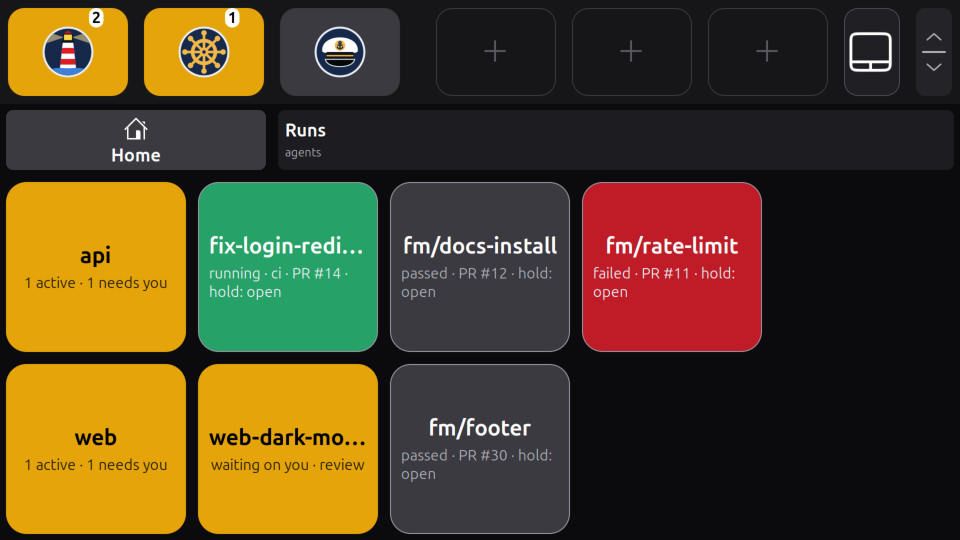
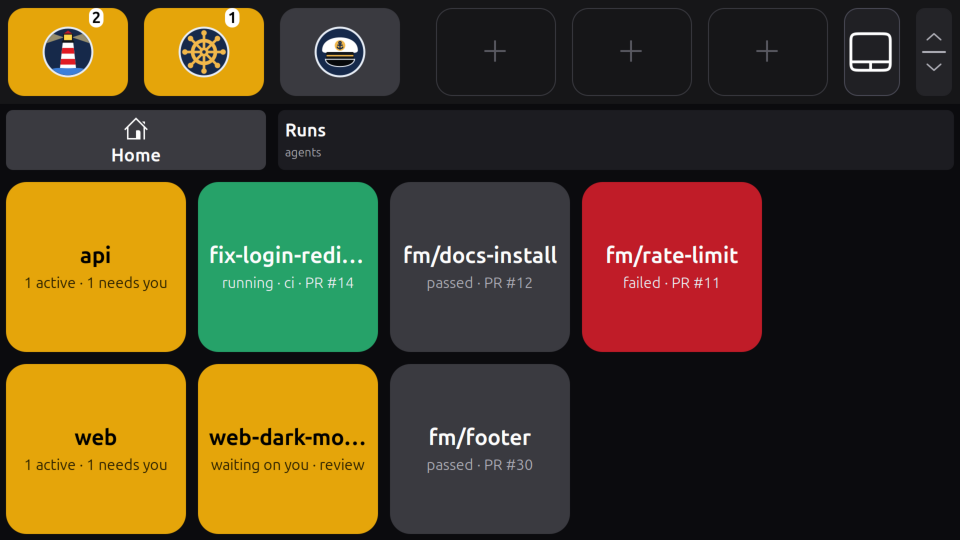
no-mistakes(review): Drop the long-press PR shortcut, keep Open PR

diff --git a/tests/test_runs_app.py b/tests/test_runs_app.py
@@ -1,6 +1,6 @@
 """The Runs page in the loop, against the stand-in touch bar's socket server:
 its page and tile, a tap opening a run's card and its Focus focusing the
-run's agent, Open PR and a long press opening a run's pull request (with a
+run's agent, Open PR on its card opening a run's pull request (with a
 stand-in opener: nothing opens on the screen), the runs tile, how often no-mistakes is read (only while the
 touch bar is connected, faster while a run is active), its failures, and
 `show`. no-mistakes, Herdr and firstmate are fakes."""
@@ -86,7 +86,7 @@ class RunsLoopTests(unittest.TestCase):
         self.assertEqual(self.herdr.sent, [])
         self.assertEqual({c[0] for c in self.nm.calls}, {"listing", "current", "detail", "findings"})
 
-    def test_open_pr_and_a_long_press_open_the_runs_pull_request(self):
+    def test_open_pr_on_the_card_opens_the_runs_pull_request(self):
         url = "https://github.com/o/r/pull/12"
         self.nm.runs = {API: [run(2, "fm/fix", "running", url), run(1, "fm/old", "completed")]}
         self.nm.details[run_id(2)] = detail(2, "fm/fix", at="ci")
@@ -97,12 +97,16 @@ class RunsLoopTests(unittest.TestCase):
             found = [w for w in rig.apps.pages["runs"].widgets if w.id == wid]
             return found[0].look if found else {}
 
-        rig.until(lambda: widget(widget_id("run.", run_id(2))).get("text", "").endswith("hold: open"))
-        rig.apps.press(client, "runs", widget_id("run.", run_id(1)), "long")  # no PR: nothing
+        rig.until(lambda: widget(widget_id("run.", run_id(2))).get("text", "").endswith("PR #12"))
+        # A long press on a run's cell, with a PR or without, does nothing.
+        for n in (1, 2):
+            rig.apps.press(client, "runs", widget_id("run.", run_id(n)), "long")
         rig.turn(3)
-        self.assertEqual((self.opened, widget(runcard.PR)), ([], {}))
-        # A long press on the run opens its card and the PR.
-        rig.apps.press(client, "runs", widget_id("run.", run_id(2)), "long")
+        self.assertEqual((self.opened, widget(runcard.PR), widget(runcard.LINES)), ([], {}, {}))
+        # A tap opens the card; Open PR on it opens the PR.
+        rig.apps.press(client, "runs", widget_id("run.", run_id(2)), "tap")
+        rig.until(lambda: widget(runcard.PR).get("label") == "Open PR #12")
+        rig.apps.press(client, "runs", runcard.PR, "tap")
         rig.until(lambda: widget(runcard.PR).get("label") == "PR #12 opened")
         self.assertEqual(self.opened, [url])
         self.assertIn("opened PR %s" % url, rig.logged)

diff --git a/screenpad_agents/runwatch.py b/screenpad_agents/runwatch.py
@@ -18,8 +18,7 @@ seconds while none is, at once when a card opens, and not at all while the
 touch bar is not connected (nothing would show it). The loop tells it the
 copies to look in when Herdr's agents or firstmate's tasks change.
 
-It also opens a run's pull request, on Open PR or a long press on the run's
-cell: the URL no-mistakes gave (runs.View.pr_url), with the desktop's URL
+It also opens a run's pull request, on Open PR on the run's card: the URL no-mistakes gave (runs.View.pr_url), with the desktop's URL
 handler in a scope of its own (desktop.py), the one command here that acts;
 it reads nothing more for it.
 """
@@ -202,12 +201,12 @@ class RunsWatch:
 
     def touch(self, widget, touch, fleet):
         """A touch on the Runs page: (the page changed, a pane to focus).
-        A tap on a run opens its card; a long press on a run with a pull
-        request opens its card and the pull request."""
+        A tap on a run opens its card; Open PR on the card opens its pull
+        request."""
+        if touch != "tap":
+            return False, None
         board = self.board
         if board.card is not None:
-            if touch != "tap":
-                return False, None
             if widget == BACK:
                 board.close_card()
                 self._jobs.put(("watch", None))
@@ -216,16 +215,10 @@ class RunsWatch:
                 return self._open_pr(fleet), None
             return False, board.card_pane(fleet) if widget == FOCUS else None
         run_id = board.run_of(widget)
-        if run_id is None or touch not in ("tap", "long"):
-            return False, None
-        if touch == "long" and board.pr_of(fleet, run_id) is None:
-            return False, None
-        if board.open_card(run_id) is None:
-            return False, None
-        if touch == "long":
-            self._open_pr(fleet)  # first, so the browser does not wait on the card's read
-        self._jobs.put(("watch", run_id))
-        return True, None
+        if run_id is not None and board.open_card(run_id) is not None:
+            self._jobs.put(("watch", run_id))
+            return True, None
+        return False, None
 
     def _open_pr(self, fleet):
         """Open the open card's pull request, unless an open is on its way:

diff --git a/screenpad_agents/runs.py b/screenpad_agents/runs.py
@@ -10,8 +10,7 @@ there) is of the run's branch, a copy to the Herdr agent whose cwd it is
 and to the firstmate task whose worktree it is. More than one active run
 for one agent, one repo copy or one branch is the warning: its project's
 widget turns red. Tapping a run opens its card (runcard.py) in place of the
-grid; a run with a pull request takes a long press too, which opens its card
-and the pull request (runwatch.py). Nothing here acts on a run.
+grid. Nothing here acts on a run.
 """
 
 import hashlib
@@ -28,8 +27,6 @@ from .nomistakes import pr_url
 COLUMNS = 5
 MIN_ROWS = 2
 RUN_CELLS = COLUMNS - 1
-# What a run cell with a pull request adds to its text: a long press opens it.
-HOLD = "hold: open"
 
 
 class Project:
@@ -401,8 +398,6 @@ class Runs:
             self._runs[wid] = v.run.id
             cell = {"id": wid, "col": col, "row": row, "label": clip(v.name(), MAX_LABEL), "tone": v.tone()}
             cell["text"] = clip(v.phrase(), MAX_TEXT)
-            if v.pr_url():
-                cell.update({"text": clip(v.phrase() + " · " + HOLD, MAX_TEXT), "touch": "long"})
             if v.duplicate:
                 cell["badge"] = "2+"
             cells.append(cell)

diff --git a/tests/test_runs_page.py b/tests/test_runs_page.py
@@ -249,12 +249,8 @@ class RunsPageTests(unittest.TestCase):
             with self.subTest(status=r.status, pr=r.pr):
                 b = self.board([(API, [r])], details=[d] if d else [])
                 cell = self.cells(b, f)[rid(2)]
-                if shown:
-                    self.assertEqual(cell.touch, "long")  # a long press opens the PR too
-                    self.assertTrue(cell.look["text"].endswith("PR #12 · hold: open"), cell.look["text"])
-                else:
-                    self.assertEqual(cell.touch, "tap")
-                    self.assertNotIn("hold", cell.look["text"])
+                self.assertEqual(cell.touch, "tap")
+                self.assertNotIn("hold", cell.look["text"])
                 self.assertEqual(b.pr_of(f, run_id(2)), shown)
                 b.open_card(run_id(2))
                 cells = self.cells(b, f)

diff --git a/docs/development.md b/docs/development.md
@@ -85,7 +85,7 @@ The agent app's tests use stand-ins only: a fake `herdr` script, and a fake firs
 - the card in the loop: Allow once, Always and Deny sending their keys and closing the card, a dialog that changes between draw and tap answered with nothing and drawn again with new buttons that need a fresh tap (the old ones then doing nothing), a state change likewise, the card following its screen and closing when its agent goes, Interrupt through `fm-control.sh` for a firstmate task and through Herdr's keys for another agent, an unknown harness read-only, and a failed send shown;
 - the decisions board: its path from `fm-bearings-board.sh path` with only `FM_HOME` (and never `build`), the session Lavish lists `open` for that file (both paths resolved, so a row listed through a symlink or with `//` or `.` matches) opened with the URL handler in a scope of its own (`systemd-run --user --scope --collect --quiet -- gio open <url>`, through a stand-in `systemd-run` that runs the opener after `--`), no `systemd-run` opening nothing, a scope that cannot be made opening nothing, none open (ended, another file, nothing listed) opening nothing, only a loopback `http` URL opened, `lavish-axi`, the opener and a missing script failing with why; asking firstmate for it with one `fm-inbox.sh note --json --request-id <id> -- <text>` with only `FM_HOME`, a refused note (exit 3, saved but not woken), a missing script or an answer that is no `fm-inbox-note.v1` failing with why, the same id again replayed, and a replay of a note firstmate has handled (acknowledged, or in `handled/`) told apart; what firstmate did with the note from `fm-inbox.sh receipts` with only `FM_HOME` (pending, handled, its reply, a note the view leaves out, an answer that is no `fm-inbox-receipts.v1`); and in the loop: a lift on the `calls` tile opening it (not a lift off the tile), taps while it opens opening it once, the Captain's Call widget's tap (not a cancel or a long press) opening its view in place, looking for the board without opening it and reading firstmate, its button opening the board and Back the grid again, no board open making the button Request board (asking nothing by itself), a tap on a button the page no longer shows doing nothing, a failure (no `systemd-run` among them) shown on the button, a long one cut to fit it and logged whole, and nothing sent to an agent or firstmate's control and nothing asked in the bar;
 - the wait for the board (`test_agents_boardwait.py`): Request board making the button and the Captain's Call widget say **Opening board…** before the note is even saved, asking firstmate once while it waits (taps then looking for the board, an older Request board doing nothing), the count read again after the request and once the board is open; the board found open ending the wait (the button then opening it; a tap finding it too), with the checks stopping and a later request under a new id; firstmate's reply shown on the button and ending the wait soon after with no board; no board in time saying so, with Retry asking again under the same id; a check that fails logged once with the wait going on; a failed note shown with Retry replaying it under the same id (a new id once it is older than the hold, and one new note under a new id when the replayed note was already handled); the same from the view on the Agents page; and a restarted app starting with no wait.
-- the Runs page: no-mistakes' client against a fake CLI (in the directory asked, only `axi`, `axi status`, `axi status --run <id>` and `axi rounds --run <id> --step <step> --json`, any other argument list refused before it runs, bad run ids and steps refused, directories it does not watch, a hang and a missing program), its TOON reader on no-mistakes' own output, and the scan (configured repos first, firstmate's clones in a throwaway home's `projects/` and the tasks' worktrees as one project, without firstmate only the repos, a configured repo it cannot read shown with why); the page and tile through the stand-in touch bar's validation (one row per project, active runs then the newest of each branch, a run joined to its agent by cwd and its task by worktree or endpoint, the warning for two active runs on one branch or one agent and none for two agents, runs waiting on a decision or failed counted, too many runs or projects, nothing read yet or no-mistakes failing, the tile's lighthouse and its words in place of it while no-mistakes fails (even after a good scan), a run's card with steps, durations, findings and Focus, Open PR and the cell's long press shown only for a run with a pull request URL on the forge (none before its PR, at CI, passed and failed with one, none for another host or `http`), the card's own read giving the URL first, and the button opening, opened and not opened with why); which `pr` is opened (only `https://github.com/<owner>/<repo>/pull/<number>`: no other scheme, host, user, port, query, fragment or path) and the open through the stand-in `systemd-run` and URL handler (in a scope, `gio open` by default, failing with why like the board's); and in the loop: the page and tile, a tap opening a run's card with its findings and Focus focusing its agent, a long press on a run with a pull request opening its card and the pull request and Open PR opening it again, its failure shown and logged (a stand-in opener: nothing opens), a long press on a run without one doing nothing, the `runs` tile focusing the agent of a run needing you, reads faster while a run is active and none while idle or disconnected, a failure shown and logged once, and `show` printing the runs with the warning.
+- the Runs page: no-mistakes' client against a fake CLI (in the directory asked, only `axi`, `axi status`, `axi status --run <id>` and `axi rounds --run <id> --step <step> --json`, any other argument list refused before it runs, bad run ids and steps refused, directories it does not watch, a hang and a missing program), its TOON reader on no-mistakes' own output, and the scan (configured repos first, firstmate's clones in a throwaway home's `projects/` and the tasks' worktrees as one project, without firstmate only the repos, a configured repo it cannot read shown with why); the page and tile through the stand-in touch bar's validation (one row per project, active runs then the newest of each branch, a run joined to its agent by cwd and its task by worktree or endpoint, the warning for two active runs on one branch or one agent and none for two agents, runs waiting on a decision or failed counted, too many runs or projects, nothing read yet or no-mistakes failing, the tile's lighthouse and its words in place of it while no-mistakes fails (even after a good scan), a run's card with steps, durations, findings and Focus, Open PR shown only for a run with a pull request URL on the forge (none before its PR, at CI, passed and failed with one, none for another host or `http`), the card's own read giving the URL first, and the button opening, opened and not opened with why); which `pr` is opened (only `https://github.com/<owner>/<repo>/pull/<number>`: no other scheme, host, user, port, query, fragment or path) and the open through the stand-in `systemd-run` and URL handler (in a scope, `gio open` by default, failing with why like the board's); and in the loop: the page and tile, a tap opening a run's card with its findings and Focus focusing its agent, Open PR on a run's card opening its pull request, its failure shown and logged (a stand-in opener: nothing opens), a long press on a run's cell, with or without one, doing nothing, the `runs` tile focusing the agent of a run needing you, reads faster while a run is active and none while idle or disconnected, a failure shown and logged once, and `show` printing the runs with the warning.
 
 The `install.sh` tests run it as the user against a temporary `HOME`, `XDG_DATA_HOME` and `XDG_CONFIG_HOME`, with stub `id` and `systemctl` first on `PATH` (so the real user manager is never asked anything) and the client library from a wheel built from `vendor/` (so nothing is fetched): the program, its package, its icons (found there by the installed copy) and the library under `~/.local/lib/screenpad-agents/`, the command's link, the unit installed but not enabled (parsed: its command, its config condition, not restarted after a config error), the installed command running in isolated mode and refusing to run without its config (and saying what to do without the library), an update replacing the copy whole and keeping the config, a failed library install keeping the previous copy, root refused, and uninstall disabling the unit, removing what install put in place and keeping the config. They are skipped when run as root. Another test checks that the library is pinned to a screenpad-linux commit and that `vendor/` holds that commit.
 

diff --git a/.agents/skills/agents/SKILL.md b/.agents/skills/agents/SKILL.md
@@ -25,7 +25,7 @@ Read first:
 - **Keys reach an agent only two ways**: an answer through `screen.guarded_send`, or Interrupt. An answer is sent only if, at the moment of sending, Herdr reports the pane still blocked by the same kind of agent, with the `state_change_seq` recorded at draw, and a fresh `pane read` taken right before `send-keys` has the digest of the lines drawn (`screen.mismatch`); otherwise nothing is sent and the card is drawn again. Never guard on Herdr's pane `revision` (it does not move when a dialog changes). Interrupt through Herdr keys checks the same kind of agent is in the pane; for a firstmate task it is `fm-control.sh` only.
 - **A tap names the screen it was made on**: the answer buttons' ids carry `Screen.token()` (the seq and the lines' digest), so a changed screen is new widgets the touch bar re-arms for 0.3 s; `Card.answer_for` takes only a token equal to the screen held now, and hides the buttons while an answer is pending. Keep Back, Focus and Interrupt ids stable (a widget whose id changes on every read never arms).
 - **The keymap answers only what it recognises** (`keymap.py`): a harness entry offers an answer only when the drawn lines show its option, never Always without the plain yes, and never a dialog its `refuse` pattern matches (Claude Code's folder-trust, external-imports and bypass dialogs, which must never get a key). An unknown kind is read-only. A new harness or key needs a lab check of its dialog and tests in `test_agents_card.py`.
-- **no-mistakes is read, never driven** (`nomistakes.py`, the Runs page, only with `[runs]`): `axi` and `axi status` in a repo directory (`cwd`), `axi status --run <id>` and `axi rounds --run <id> --step <step> --json`, and nothing else: `read_only()` refuses any other argument list before it runs (`test_only_read_only_commands_run`); never `axi run`, `respond`, `answer`, `abort`, `retry`, `rerun`, `sync`, `handoff` or `daemon`. Its one acting command is opening a run's pull request (Open PR on the card, or a long press on a run's cell, `touch: "long"` only while it has one): `desktop.open_url` in the runs thread, with the URL no-mistakes printed as the run's `pr` and only when `nomistakes.pr_url` accepts it (`https://github.com/<owner>/<repo>/pull/<n>`, nothing else); never a URL built from a branch or number (`test_only_a_pull_requests_https_url_on_the_forge_is_opened`). `RunsWatch` takes `opener=`, and a loop test passes a stand-in (`Rig(..., opener=...)`) or it would open a real browser. A run joins its copy by the copy's current branch (`axi status` there), the copy its agent by Herdr `cwd` and its task by the worktree firstmate's reader gives (`--fields endpoints,paths`, asked only with `[runs] firstmate`); of firstmate's home only the directory names in `<home>/projects/` are read. The warning is more than one active run per agent pane, copy or branch (`Runs.views`). Its thread reads every `[runs] poll` s while a run is active, `idle` s otherwise, and not while the touch bar is disconnected; widget text holds no time that changes each read. Tests use `runs_support.py`'s fake CLI and `FakeNoMistakes`, never a real repo or no-mistakes.
+- **no-mistakes is read, never driven** (`nomistakes.py`, the Runs page, only with `[runs]`): `axi` and `axi status` in a repo directory (`cwd`), `axi status --run <id>` and `axi rounds --run <id> --step <step> --json`, and nothing else: `read_only()` refuses any other argument list before it runs (`test_only_read_only_commands_run`); never `axi run`, `respond`, `answer`, `abort`, `retry`, `rerun`, `sync`, `handoff` or `daemon`. Its one acting command is opening a run's pull request (Open PR on the card; a run's cell takes only a tap): `desktop.open_url` in the runs thread, with the URL no-mistakes printed as the run's `pr` and only when `nomistakes.pr_url` accepts it (`https://github.com/<owner>/<repo>/pull/<n>`, nothing else); never a URL built from a branch or number (`test_only_a_pull_requests_https_url_on_the_forge_is_opened`). `RunsWatch` takes `opener=`, and a loop test passes a stand-in (`Rig(..., opener=...)`) or it would open a real browser. A run joins its copy by the copy's current branch (`axi status` there), the copy its agent by Herdr `cwd` and its task by the worktree firstmate's reader gives (`--fields endpoints,paths`, asked only with `[runs] firstmate`); of firstmate's home only the directory names in `<home>/projects/` are read. The warning is more than one active run per agent pane, copy or branch (`Runs.views`). Its thread reads every `[runs] poll` s while a run is active, `idle` s otherwise, and not while the touch bar is disconnected; widget text holds no time that changes each read. Tests use `runs_support.py`'s fake CLI and `FakeNoMistakes`, never a real repo or no-mistakes.
 - **Slow calls stay off the loop**: Herdr, firstmate's reader and firstmate's control (interrupts, opening the board and asking for one) and no-mistakes (`runwatch.py`) each run in their own thread (`app.py`) and hand results through a queue and a wake pipe, so a touch is handled at once. A worker never dies on an error: any exception from a read is shown and logged like the source's own errors, and one from a focus is logged, one from an answer or an interrupt is shown on the card (`test_an_unexpected_error_keeps_both_threads_going`, `test_a_refused_focus_is_logged_and_the_loop_goes_on`, `test_a_failed_send_is_shown_and_the_card_stays`). A widget's id is derived from its pane (`fleet.widget_id`), and `Fleet.pane_of` answers only for the page last built, so a tap means the agent that was drawn.
 - Keep widget text free of anything that changes on every read (times, counters): a widget that changes re-arms for 0.3 s and cancels a finger on it.
 

diff --git a/docs/runs.md b/docs/runs.md
@@ -6,10 +6,9 @@ With a `[runs]` table in its config, the [agent app](agents.md) adds a second pa
 - **each run joined to its agent and its firstmate task**: a run shows under the task's name when it is one, otherwise under its branch, with what it is doing (`running · review`, `waiting on you · review`, `failed · push`, `passed · PR #12`);
 - **a warning** when one agent, one repo copy or one branch has more than one active run: normally there is at most one per agent. The project's widget turns red and says so, and the runs involved carry a `2+` badge;
 - **a run's card** when you tap it: its steps, findings and how it ended, **Focus** to its agent's pane, and **Open PR** once the run has opened a pull request;
-- **its pull request in one touch**: hold a run that has one (its cell ends in `PR #12 · hold: open`) to open its card and the pull request in your browser on the main screen;
 - an optional **`runs` tile** for the bar: a lighthouse, with how many runs need you (the home page's list adds how many are active). The Runs page has the lighthouse too, in the home page's list; see [its icons](agents.md#its-icons).
 
-![The Runs page: api with 1 active and 1 needing you, then fix-login-redirect running at ci with PR #14 in green, fm/docs-install passed with PR #12 in grey and fm/rate-limit failed with PR #11 in red, each ending in hold: open; below, web with web-dark-mode waiting on you at review in amber and fm/footer passed with PR #30](images/runs-page.png)
+![The Runs page: api with 1 active and 1 needing you, then fix-login-redirect running at ci with PR #14 in green, fm/docs-install passed with PR #12 in grey and fm/rate-limit failed with PR #11 in red; below, web with web-dark-mode waiting on you at review in amber and fm/footer passed with PR #30](images/runs-page.png)
 
 *The Runs page with two projects, under a bar 208 px high. Rendered by the touch bar's extension in a headless GNOME Shell 50.1, from the app's own page fed to the daemon's own code, with stand-in runs, agents and tasks.*
 
@@ -88,7 +87,7 @@ Tapping a run opens its card in place of the grid, until **Back** or the run lea
 
 *The card of a run watching CI, opened from the Runs page. Rendered like the page above.*
 
-Once no-mistakes has opened the run's pull request (from its `pr` step on: while it watches CI, and after the run passed or failed), the card has **Open PR #12** (a signal flag) in its bottom right corner, and the run's cell on the page ends in `· hold: open`. A tap on Open PR, or a long press (0.8 s) on the run's cell, which also opens the card, opens the pull request in your browser on the main screen, the same way [Captain's Call opens the decisions board](agents.md#opening-the-board): the desktop's URL handler in a transient scope of its own, outside the app's unit,
+Once no-mistakes has opened the run's pull request (from its `pr` step on: while it watches CI, and after the run passed or failed), the card has **Open PR #12** (a signal flag) in its bottom right corner. A tap on Open PR opens the pull request in your browser on the main screen, the same way [Captain's Call opens the decisions board](agents.md#opening-the-board): the desktop's URL handler in a transient scope of its own, outside the app's unit,
 
 ```sh
 systemd-run --user --scope --collect --quiet -- gio open https://github.com/<owner>/<repo>/pull/<number>
@@ -114,7 +113,7 @@ Only these no-mistakes commands run, each read-only, and no other (`screenpad_ag
 | `no-mistakes axi status --run <id>` | | each active run in detail: steps, gate, outcome, error; and the open card's run |
 | `no-mistakes axi rounds --run <id> --step <step> --json` | | the findings of the open card's steps that have some |
 
-The one command the Runs page runs that acts is opening a pull request, on Open PR or a long press: `systemd-run --user --scope --collect --quiet -- gio open <url>`, with the run's `pr` the commands above gave ([Opening a run's pull request](#opening-a-runs-pull-request)); `systemd-run` and `gio` get no `FM_*` variable. It runs in the Runs page's thread, between two reads.
+The one command the Runs page runs that acts is opening a pull request, on Open PR: `systemd-run --user --scope --collect --quiet -- gio open <url>`, with the run's `pr` the commands above gave ([Opening a run's pull request](#opening-a-runs-pull-request)); `systemd-run` and `gio` get no `FM_*` variable. It runs in the Runs page's thread, between two reads.
 
 firstmate's task worktrees come from its own reader: with `[runs] firstmate`, the reader the app already runs is asked for `--fields endpoints,paths` instead of `--fields endpoints`. Of firstmate's home the app reads nothing else but the names of the directories in `<home>/projects/`.
 

diff --git a/docs/agents.md b/docs/agents.md
@@ -211,7 +211,7 @@ A dialog that matches none of this, or one that must never be answered with a ke
   ```
 
   It takes about 3 s, and runs at most once a minute plus when you open Captain's Call's view, tap the `calls` tile or the board's button, and after a request. Looking for the board runs `FM_HOME=<home> <code>/bin/fm-bearings-board.sh path` and `lavish-axi`, opening it also `gio open` with the board's URL in a scope of its own (`systemd-run --user --scope`, outside the app's unit), and **Request board** runs `FM_HOME=<home> <code>/bin/fm-inbox.sh note --json --request-id <id> -- <text>`, then, every 10 seconds for at most 3 minutes, `fm-bearings-board.sh path`, `lavish-axi` and `FM_HOME=<home> <code>/bin/fm-inbox.sh receipts` (read-only), [above](#captains-call-and-the-decisions-board), in the thread of firstmate's control. Interrupting a task's agent runs `FM_HOME=<home> <code>/bin/fm-control.sh <task> interrupt` in a thread of its own; it and that note are the only firstmate commands the app runs that act on anything (`fm-bearings-board.sh` runs only as `path`, `fm-inbox.sh` otherwise only as `receipts`; the app never builds or arms a board, and never replies to or acknowledges a note). The count is the number of open decisions plus the captain's contributions (`decisions_open` and `contributions.captain` in its `fm-bearings.v1` output), shown with a `+` when the reader left some out; Captain's Call's page names each one the reader lists (a decision's `id` and `summary`, a contribution's `task`, `kind` and `reason`). Each task's endpoint, `<session>:<pane id>` for Herdr, joins the task to the agent Herdr reports in that pane. The app passes firstmate's commands only `FM_HOME`, none of the other `FM_*` variables of its own environment, and `lavish-axi`, `systemd-run` and `gio` no `FM_*` variable at all.
-- **no-mistakes**, with `[runs]`: only its read-only `axi`, `axi status` and `axi rounds` commands, [on the Runs page](runs.md#how-it-reads); with `[runs] firstmate`, firstmate's reader is asked for `--fields endpoints,paths`, for its tasks' worktrees. The Runs page acts only to open a run's pull request, on Open PR or a long press on the run: `systemd-run --user --scope --collect --quiet -- gio open <url>`, the same launch as the decisions board's, with the URL no-mistakes gave for the run's `pr` and only a GitHub pull request's (`https://github.com/<owner>/<repo>/pull/<number>`), in the Runs page's thread.
+- **no-mistakes**, with `[runs]`: only its read-only `axi`, `axi status` and `axi rounds` commands, [on the Runs page](runs.md#how-it-reads); with `[runs] firstmate`, firstmate's reader is asked for `--fields endpoints,paths`, for its tasks' worktrees. The Runs page acts only to open a run's pull request, on Open PR on the run's card: `systemd-run --user --scope --collect --quiet -- gio open <url>`, the same launch as the decisions board's, with the URL no-mistakes gave for the run's `pr` and only a GitHub pull request's (`https://github.com/<owner>/<repo>/pull/<number>`), in the Runs page's thread.
 - **The touch bar:** the socket in `$XDG_RUNTIME_DIR/screenpad/touchbar.sock`, as app `agents` with tiles `agents` and `calls` (only `agents` without firstmate), and `runs` with `[runs]`, and pages `agents` and `calls` (only `agents` without firstmate), and `runs` with `[runs]`. It talks to it through the [client library](https://github.com/mmarsot/screenpad-linux/blob/main/docs/app-api.md#the-python-client-library) `screenpad_app`, speaking app protocol 2: it sends a page or tile only when it changed, and connects again every 5 s while the daemon is not running or refuses its protocol version (a touch bar too old for it, logged once with what to update).
 
 ## Troubleshooting
